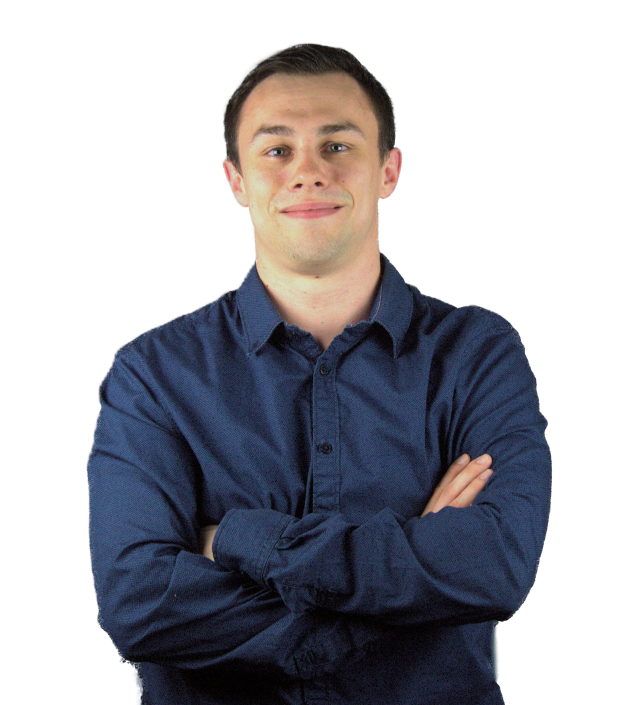
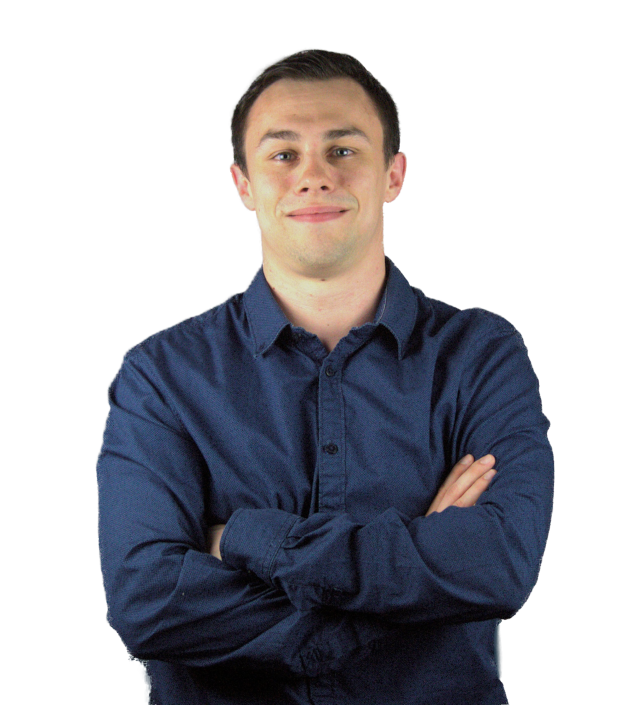
img circle change

diff --git a/src/app/main-page/about-me/about-me.component.html b/src/app/main-page/about-me/about-me.component.html
@@ -15,7 +15,7 @@
             </div>
         </main>
         <aside>
-            <img src="assets/img/circle-photo.png" alt="circlephoto">
+            <img  src="assets/img/circle-photo.png" alt="circlephoto">
             <div class="greenLine"></div>
         </aside>
     </section>

diff --git a/src/app/main-page/about-me/about-me.component.scss b/src/app/main-page/about-me/about-me.component.scss
@@ -45,6 +45,10 @@ main {
 
 aside {
     @include dFlex($jc: null);
+
+    img {
+        width: 455px;
+    }
 }
 
 .greenLine {
